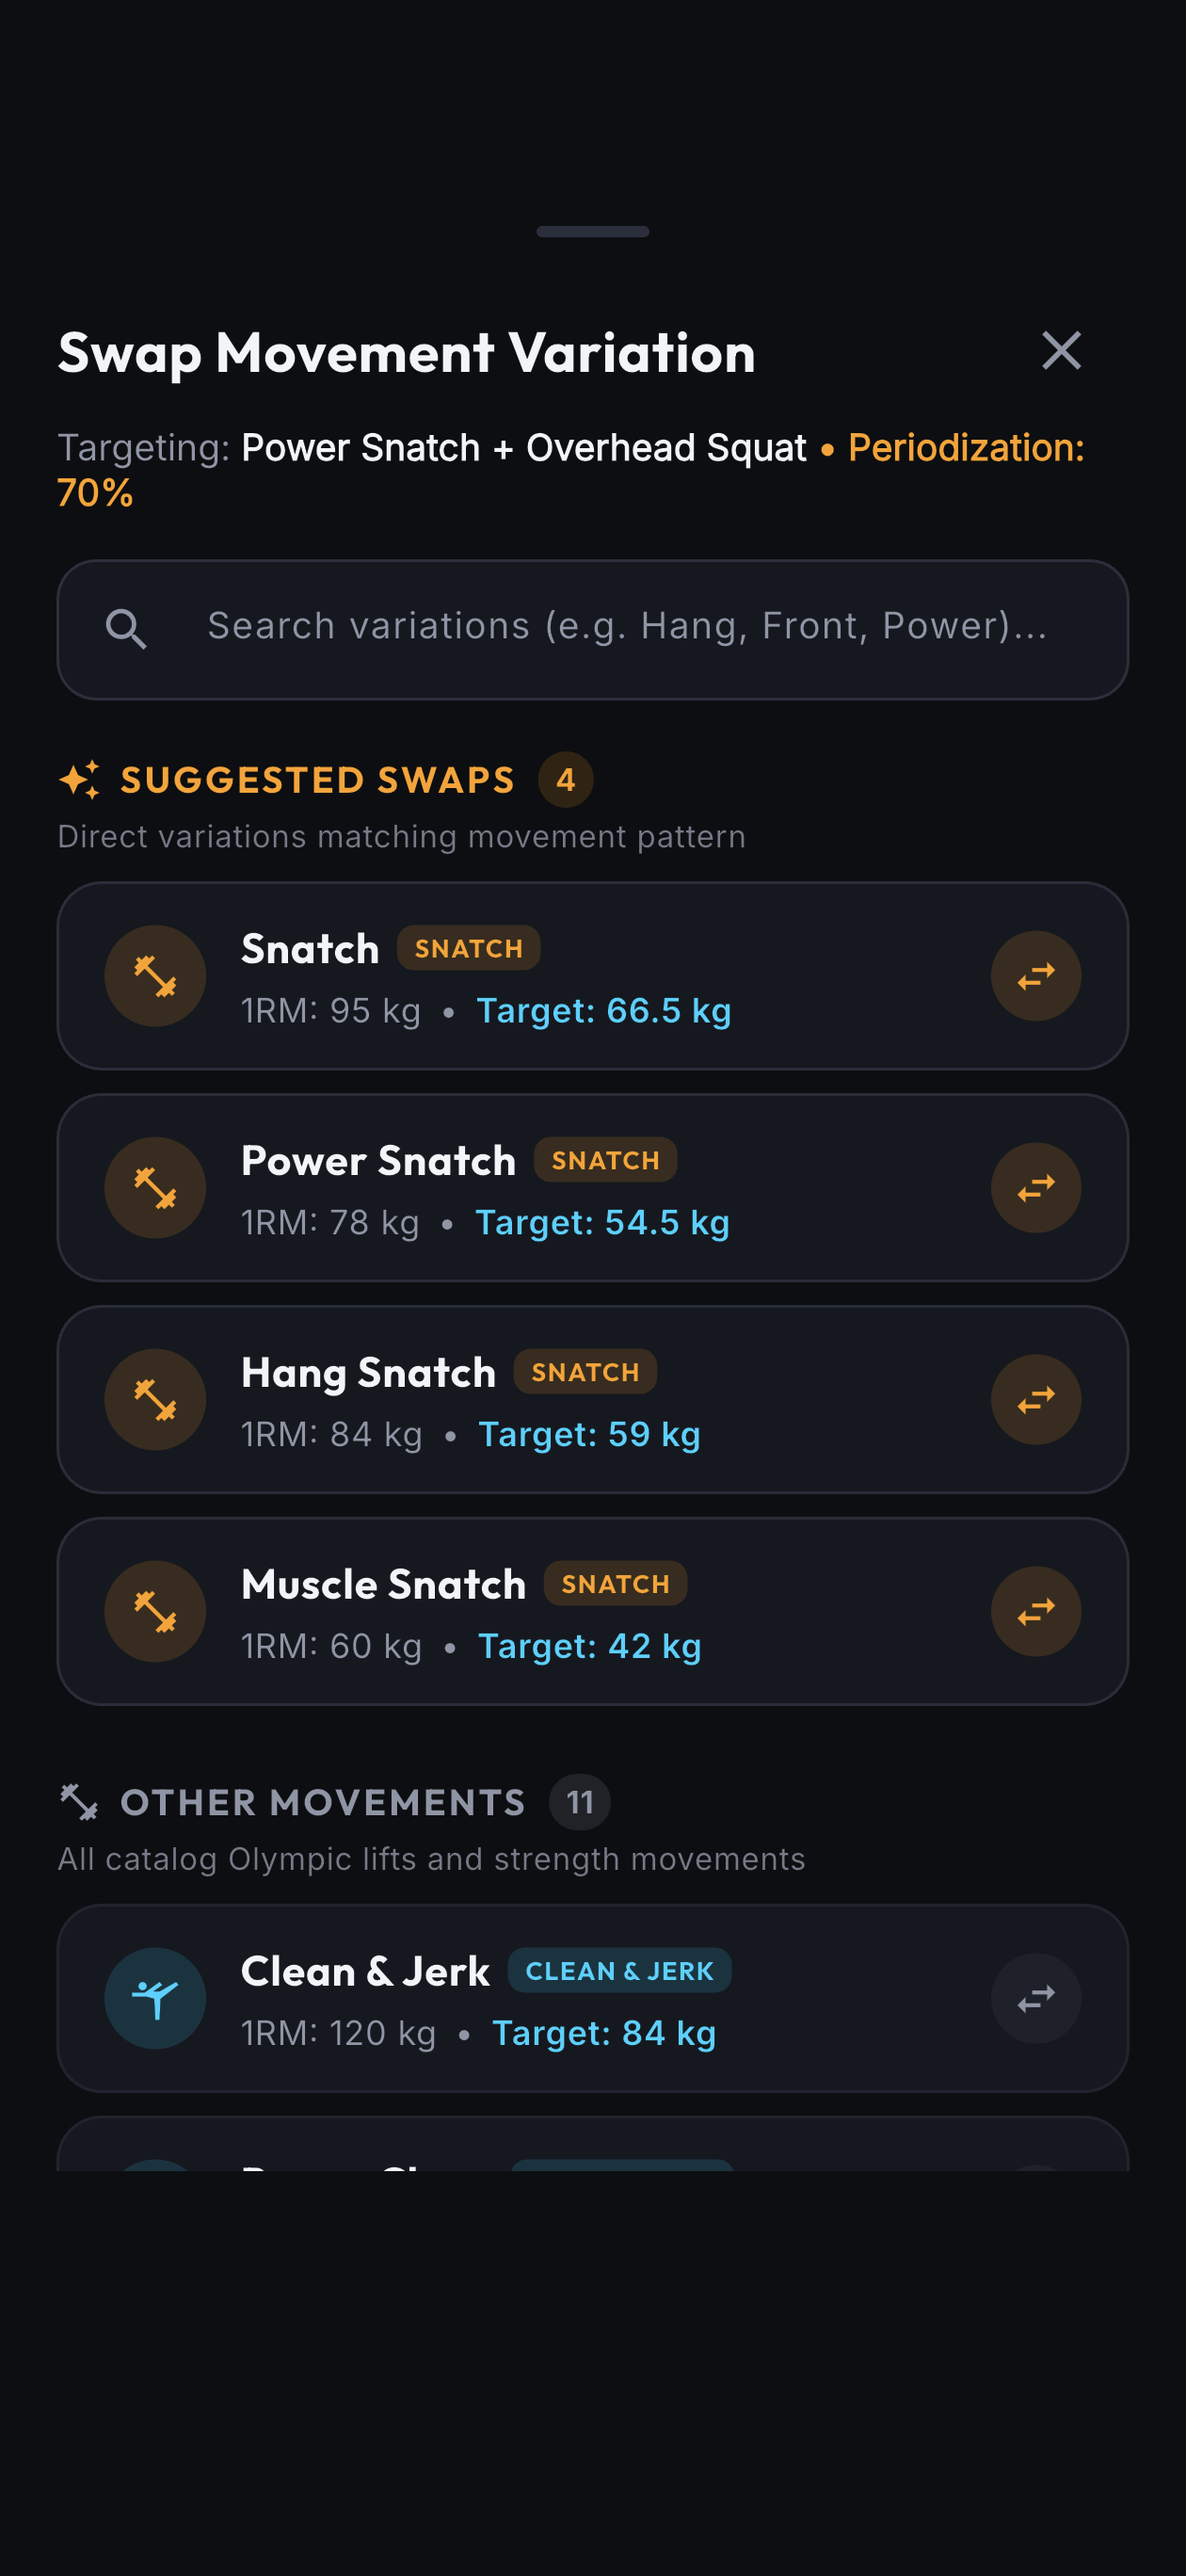
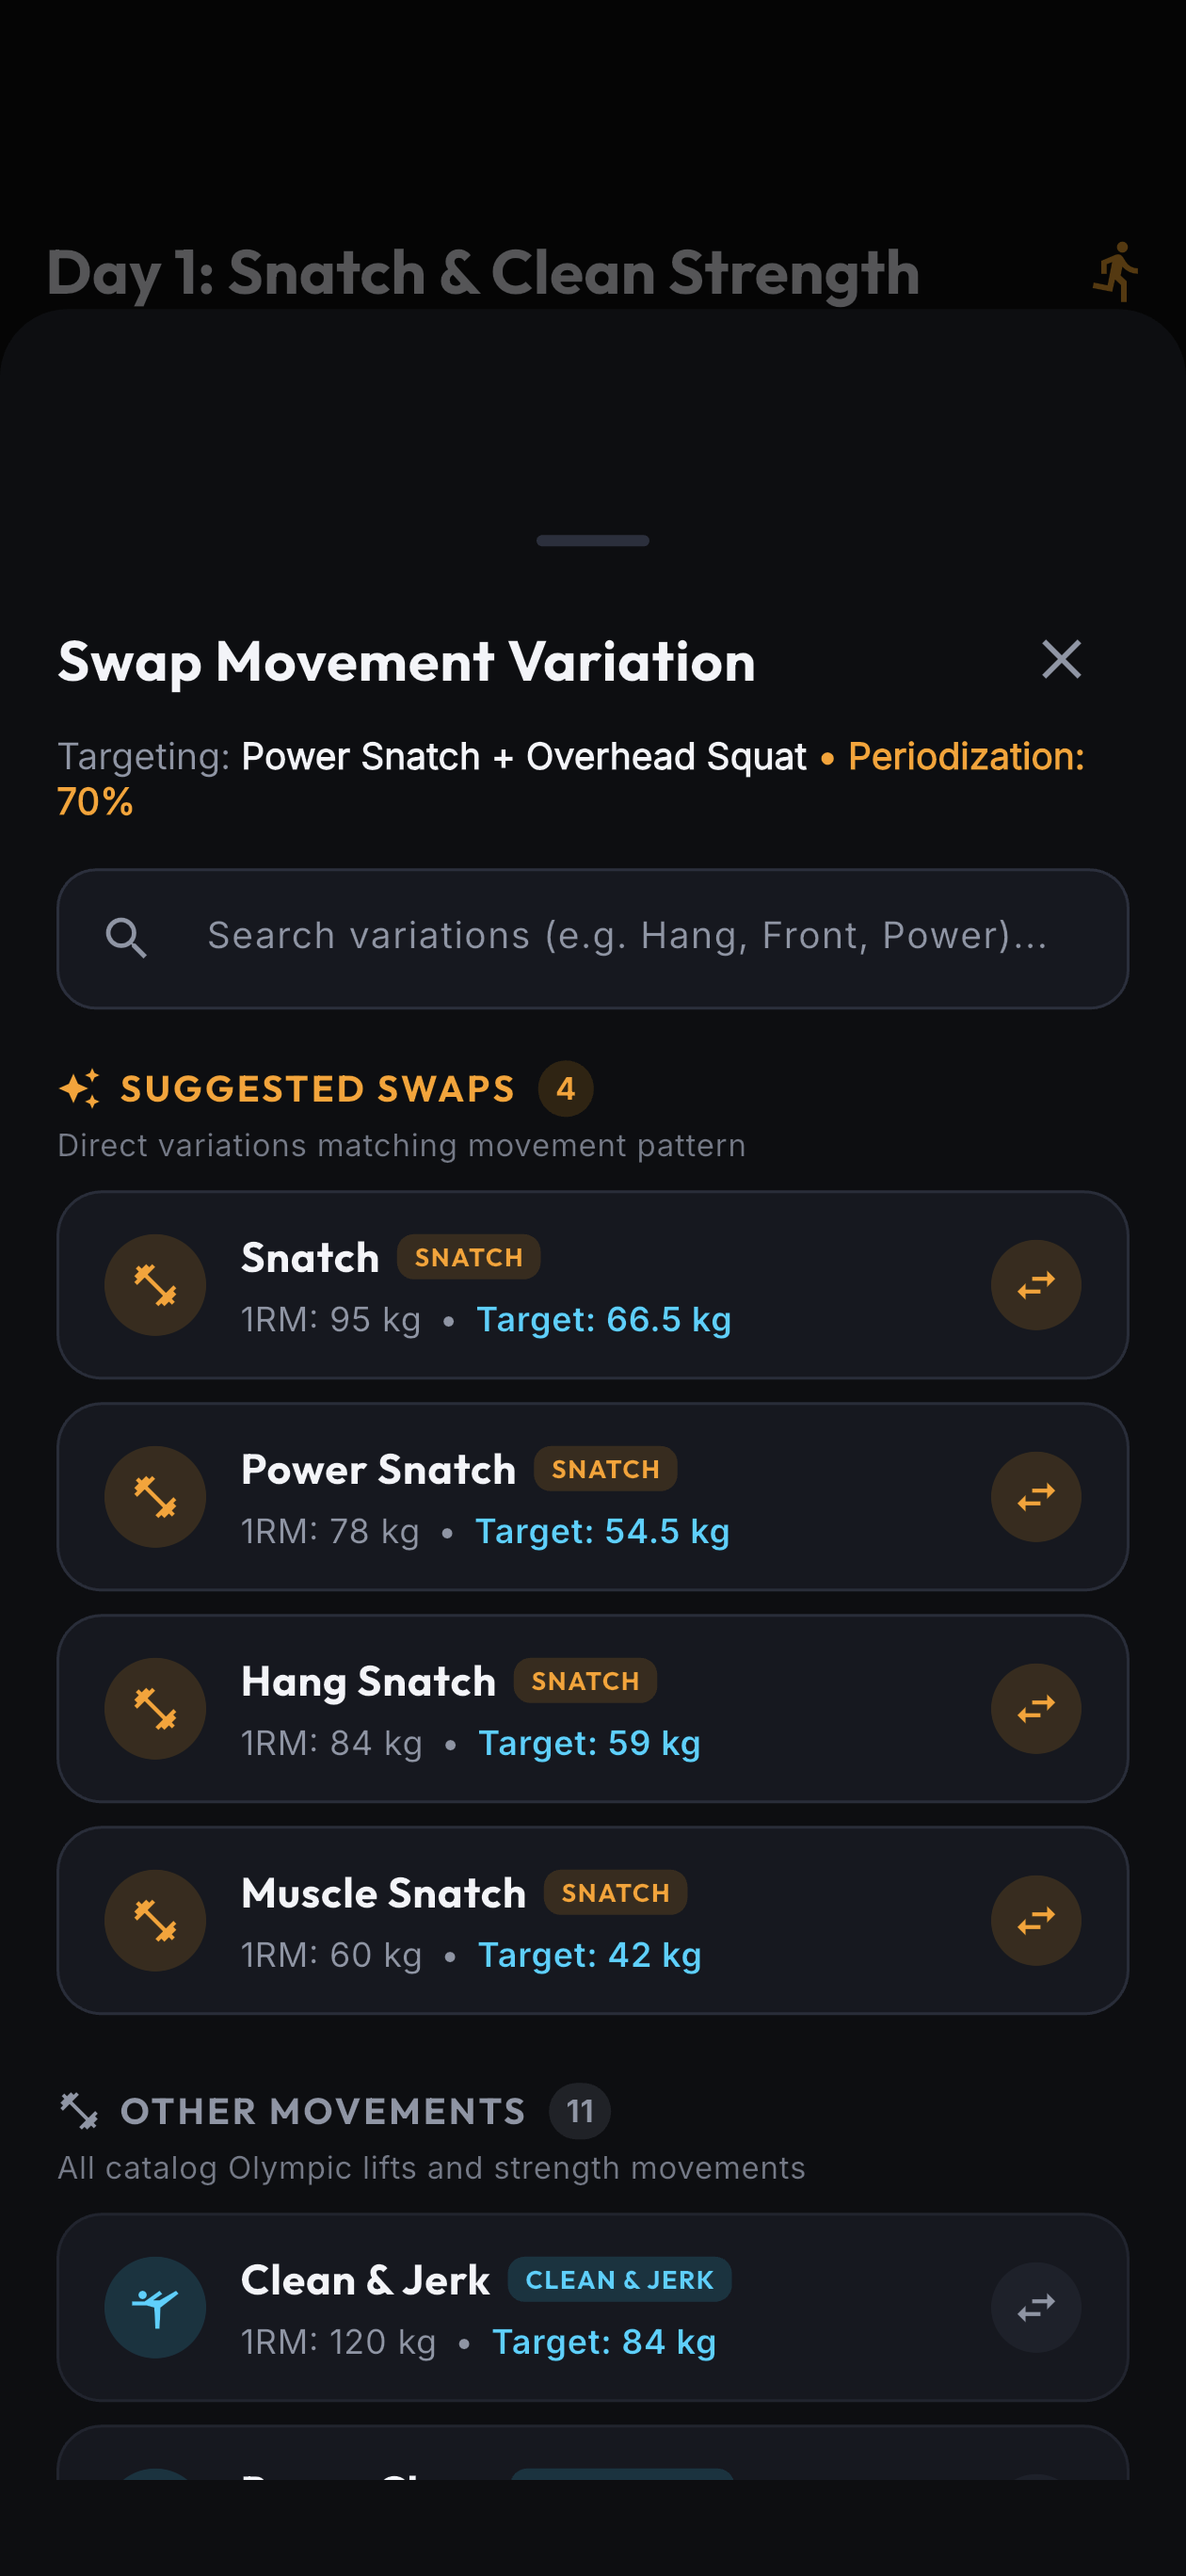
fix: Fix Weight Adjustment & 1RM Recalculator screenshot rendering with session backdrop

diff --git a/integration_test/screenshot_test.dart b/integration_test/screenshot_test.dart
@@ -121,10 +121,19 @@ void main() {
     );
     await tester.pumpWidget(
       buildAppWrapper(
-        ExerciseSwapModal(
-          exercise: exercise,
-          currentWeek: 2,
-          onSwapSelected: (_) {},
+        Stack(
+          children: [
+            WorkoutSessionScreen(dayTemplate: day1, previewWeek: 2),
+            Container(color: Colors.black.withValues(alpha: 0.65)),
+            Align(
+              alignment: Alignment.bottomCenter,
+              child: ExerciseSwapModal(
+                exercise: exercise,
+                currentWeek: 2,
+                onSwapSelected: (_) {},
+              ),
+            ),
+          ],
         ),
       ),
     );
@@ -133,16 +142,25 @@ void main() {
     // 11 WORKOUT WEIGHT & 1RM RECALC DIALOG
     await tester.pumpWidget(
       buildAppWrapper(
-        WorkoutWeightDialog(
-          exercise: exercise,
-          displayName: 'Power Snatch + Overhead Squat',
-          initialWeightKg: 70.0,
-          currentWeek: 2,
-          onWeightUpdated: ({
-            required double newWeightKg,
-            required bool update1RM,
-            double? new1RMKg,
-          }) {},
+        Stack(
+          children: [
+            WorkoutSessionScreen(dayTemplate: day1, previewWeek: 2),
+            Container(color: Colors.black.withValues(alpha: 0.65)),
+            Align(
+              alignment: Alignment.bottomCenter,
+              child: WorkoutWeightDialog(
+                exercise: exercise,
+                displayName: 'Power Snatch + Overhead Squat',
+                initialWeightKg: 70.0,
+                currentWeek: 2,
+                onWeightUpdated: ({
+                  required double newWeightKg,
+                  required bool update1RM,
+                  double? new1RMKg,
+                }) {},
+              ),
+            ),
+          ],
         ),
       ),
     );
@@ -171,9 +189,18 @@ void main() {
     );
     await tester.pumpWidget(
       buildAppWrapper(
-        MobilityExerciseSwapModal(
-          exercise: mobilityEx,
-          onSwapSelected: (_) {},
+        Stack(
+          children: [
+            RecoverySessionScreen(routine: routine),
+            Container(color: Colors.black.withValues(alpha: 0.65)),
+            Align(
+              alignment: Alignment.bottomCenter,
+              child: MobilityExerciseSwapModal(
+                exercise: mobilityEx,
+                onSwapSelected: (_) {},
+              ),
+            ),
+          ],
         ),
       ),
     );
